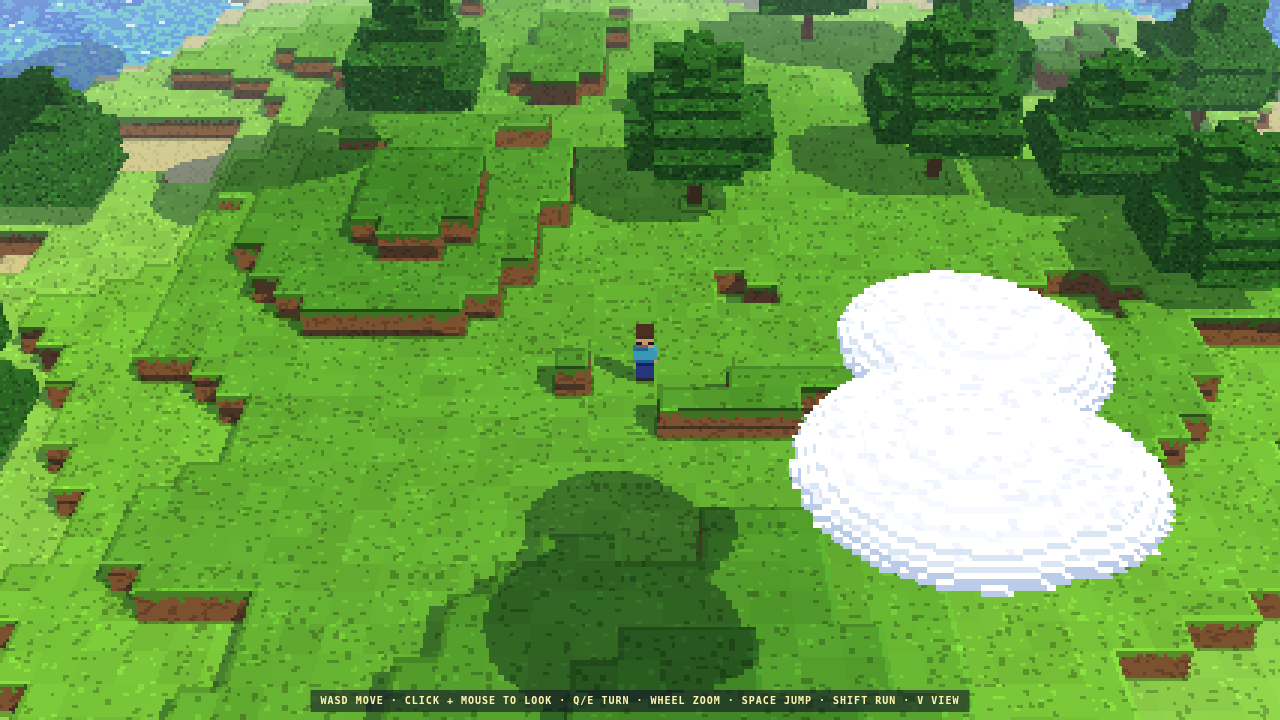
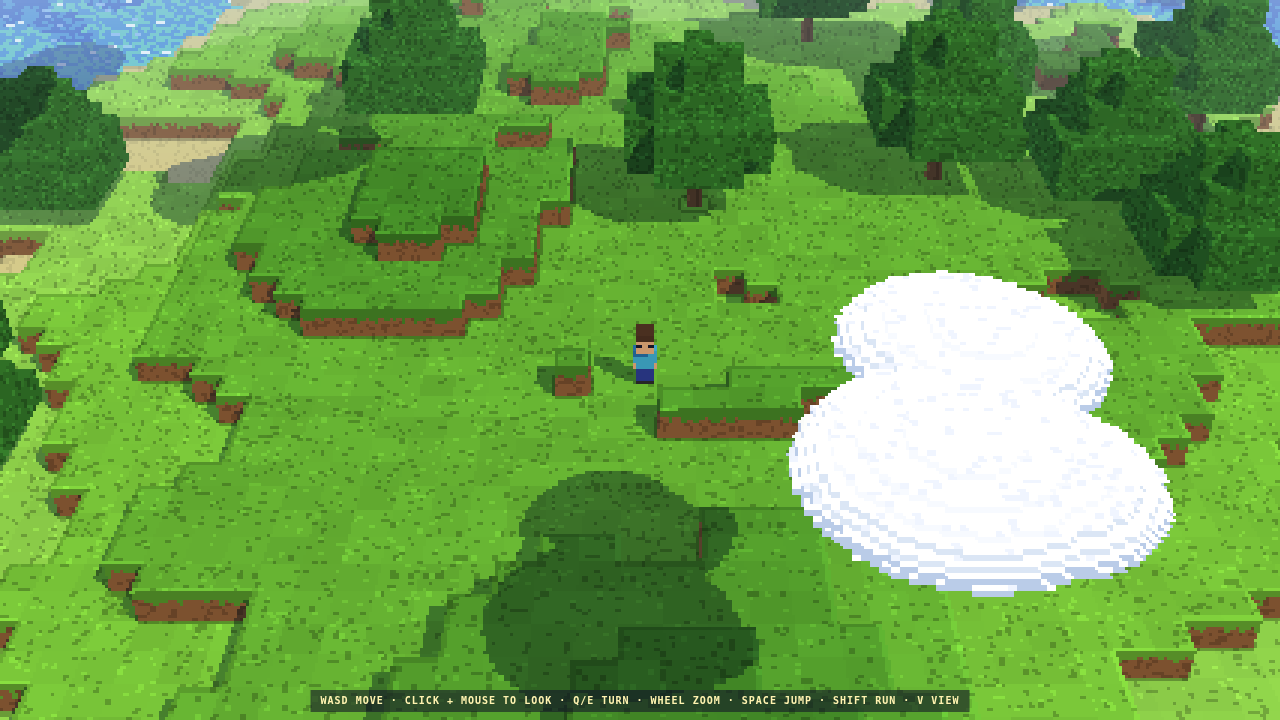
v2: exact DDA voxel traversal fixes texture seams; clouds fade over player in all views

diff --git a/dist/index.html b/dist/index.html
@@ -10,7 +10,7 @@ html,body{margin:0;height:100%;overflow:hidden;background:#2f5bc4;touch-action:n
 .bt{position:fixed;right:calc(18px + env(safe-area-inset-right));width:64px;height:64px;border-radius:50%;background:rgba(18,22,38,.45);border:2px solid rgba(255,243,176,.6);color:#fff3b0;font:700 13px ui-monospace,monospace;display:flex;align-items:center;justify-content:center}
 #j{bottom:calc(46px + env(safe-area-inset-bottom))}#v{bottom:calc(124px + env(safe-area-inset-bottom));width:48px;height:48px;right:calc(26px + env(safe-area-inset-right));font-size:11px}
 </style></head><body><canvas id="c"></canvas><div id="l">LOADING</div><div id="e"></div><div id="h"></div><div id="t"><div id="b"><div id="k"></div></div><div class="bt" id="j" data-btn="1">JUMP</div><div class="bt" id="v" data-btn="1">VIEW</div></div><script type="module">
-const SCENE_WGSL=`struct V{@builtin(position)p:vec4f};@vertex fn vs(@builtin(vertex_index)i:u32)->V{var o:V;let x=f32((i<<1u)&2u);let y=f32(i&2u);o.p=vec4f(x*2.-1.,1.-y*2.,0.,1.);return o;}@group(0)@binding(0)var<uniform>U:array<vec4f,8>;@group(0)@binding(1)var vox:texture_3d<u32>;@group(0)@binding(2)var hm:texture_2d<u32>;const N=128;const NZ=16;const S=8.;const ZW=2.75;const CB=15.5;const SUN=vec3f(-0.5,0.42,0.757);const FOG=vec3f(0.761,0.859,0.941);fn hh(a:u32)->u32{var n=a;n^=n >> 16u;n*=0x7feb352du;n^=n >> 15u;n*=0x846ca68bu;n^=n >> 16u;return n;}fn h2(p:vec2i)->f32{return f32(hh((u32(p.x)*1597334677u)^hh(u32(p.y)+0x9e3779b9u)) >> 8u)/16777216.;}fn h3(p:vec3i)->f32{return h2(vec2i(p.x+p.z*7919,p.y^(p.z*104729)));}fn c3(h:u32)->vec3f{return vec3f(f32((h >> 16u)&255u),f32((h >> 8u)&255u),f32(h&255u))/255.;}fn block(b:vec3i)->u32{if(b.x<0||b.y<0||b.z<0||b.x>=N||b.y>=N||b.z>=NZ){return 0u;}return textureLoad(vox,b,0).r;}fn height(b:vec2i)->i32{if(b.x<0||b.y<0||b.x>=N||b.y>=N){return 0;}return i32(textureLoad(hm,b,0).r);}fn player(t:vec3i)->u32{let P=U[5];let dz=t.z-i32(floor(P.z*S+0.01));if(dz<0||dz>14){return 0u;}let d=vec2f(t.xy)+0.5-P.xy*S;if(dot(d,d)>20.){return 0u;}let f=U[6].xy;let v=dot(d,f);let u=dot(d,vec2f(f.y,-f.x));let iu=i32(floor(u+0.5));let iv=i32(floor(v+0.5));let sw=i32(round(sin(U[6].z)*1.6*U[6].w));if(dz<=4){let m=select(10u,15u,dz==0);if((iu==-1||iu==-2)&&(iv-sw==-1||iv-sw==0)){return m;}if((iu==0||iu==1)&&(iv+sw==-1||iv+sw==0)){return m;}return 0u;}if(dz<=9){if(iu>=-2&&iu<=1&&(iv==-1||iv==0)){return 11u;}if(dz>=5&&((iu==-3&&(iv+sw==-1||iv+sw==0))||(iu==2&&(iv-sw==-1||iv-sw==0)))){return select(11u,12u,dz==5);}return 0u;}if(iu>=-2&&iu<=1&&iv>=-2&&iv<=1){if(dz>=13||iv==-2||(dz==12&&(iu==-2||iu==1)&&iv<1)){return 13u;}if(iv==1&&dz==11&&(iu==-2||iu==1)){return 14u;}return 12u;}return 0u;}fn solidT(t:vec3i)->u32{let pm=player(t);if(pm!=0u){return pm;}let id=block(t >> vec3u(3u));if(id==5u){let l=t&vec3i(7);if(l.x<2||l.x>5||l.y<2||l.y>5){return 0u;}}if(id==6u&&h3(t)<0.06){return 0u;}return id;}fn vn(p:vec2f)->f32{let i=vec2i(floor(p));let f=fract(p);let u=f*f*(3.-2.*f);return mix(mix(h2(i),h2(i+vec2i(1,0)),u.x),mix(h2(i+vec2i(0,1)),h2(i+vec2i(1,1)),u.x),u.y);}fn cloud(p:vec2f)->f32{let w=p+vec2f(U[0].z*0.9,U[0].z*0.3);let c=vec2i(floor(w/12.));if(h2(c+vec2i(77,13))>0.42){return 0.;}var hmax=0.;for(var i=0;i<4;i++){let r1=h2(c*4+vec2i(i,91));let r2=h2(c*4+vec2i(i,37));let r3=h2(c*4+vec2i(i,53));let r=1.3+r3*2.2;let o=vec2f(c)*12.+6.+(vec2f(r1,r2)-.5)*(9.-2.*r);let d=w-o;let q=r*r-dot(d,d);if(q>0.){hmax=max(hmax,sqrt(q)*2.6+0.5);}}return hmax;}fn shadow(q0:vec3f)->f32{var q=q0;var s=1.;for(var j=0;j<30;j++){q+=SUN*(1.6/S);if(q.z>15.){break;}if(solidT(vec3i(floor(q*S)))!=0u){s=0.;break;}}let qc=q0.xy+SUN.xy*((CB+0.6-q0.z)/SUN.z);if(cloud((floor(qc*S)+.5)/S)>0.){s=min(s,0.);}return s;}fn grassCol(hb:f32)->vec3f{switch i32(hb){case 4:{return c3(0x8fd24au);}case 5:{return c3(0x78c438u);}case 6:{return c3(0x66b232u);}case 7:{return c3(0x549f2cu);}default:{return c3(0x448c27u);}}}fn matCol(id:u32,t:vec3i,face:i32)->vec3f{let r=h3(t);let l=t&vec3i(7);let b=t >> vec3u(3u);var c:vec3f;switch id{case 1u:{let g=grassCol(f32(b.z+1));if(face==0){c=g*(0.94+0.1*h2(b.xy));if(r<0.09){c*=0.78;}else if(r>0.96){c*=1.12;}}else{let edge=7-l.z<2+i32(h3(vec3i(t.xy,0))*2.5);c=select(c3(0x8a5a34u)*select(1.,0.82,r<.2),g*0.8,edge);}}case 2u:{c=c3(0x8a5a34u)*select(1.,0.8,r<.25);}case 3u:{c=c3(0xd6c983u)*select(1.,0.92,r<.2);if(face!=0){c*=0.9;}}case 4u:{c=c3(0x959e9eu)*select(1.,0.86,r<.3);if(r>.95){c*=1.1;}}case 5u:{c=select(c3(0x7a5230u)*select(1.,0.8,l.x==3||l.y==4),c3(0xb08a55u),face==0);}case 6u:{c=c3(0x307026u)*select(1.,select(0.78,1.25,r>.5),r<.2||r>.9);}case 10u:{c=c3(0x2b3a8cu);}case 11u:{c=c3(0x3fa9c9u);}case 12u:{c=c3(0xe0a878u);}case 13u:{c=c3(0x4a3020u);}case 14u:{c=c3(0x1a1a2au);}default:{c=c3(0x2a2a2au);}}return c;}fn water(p:vec2f,sh:f32)->vec3f{let t=vec2i(floor(p*S));let tm=U[0].z;let hb=height(t >> vec2u(3u));var dl=9;for(var k=1;k<=3;k++){if(height((t+vec2i(k,0)) >> vec2u(3u))>=3||height((t-vec2i(k,0)) >> vec2u(3u))>=3||height((t+vec2i(0,k)) >> vec2u(3u))>=3||height((t-vec2i(0,k)) >> vec2u(3u))>=3){dl=min(dl,k);}}let n=h2(t >> vec2u(1u))*0.6;let dep=(2.7-f32(hb))+n-select(0.,1.2,dl<=3);var c=c3(0x2f5bc4u);if(dep<1.0){c=c3(0x59c2c4u);}else if(dep<1.9){c=c3(0x3f8ad6u);}let wt=vec2i(floor(vec2f(p.x*S+tm*3.,p.y*S)/vec2f(3.,1.)));let sp=h2(wt+vec2i(i32(tm*0.8)*37,0));if(sp>0.985){c=vec3f(0.95,0.98,1.);}else if(sp>0.965){c=mix(c,vec3f(0.62,0.8,1.),0.7);}if(sh<0.5){c=mix(c,c3(0x1b2f78u),0.55);}let ph=i32(tm*3.);if(dl==1&&h2(t+vec2i(ph*13,0))>0.15){c=vec3f(0.96,0.98,1.);}else if(dl==2&&h2(t+vec2i(0,ph*7))>0.6){c=mix(c,vec3f(1.),0.8);}return c;}fn sky(d:vec3f)->vec3f{return mix(FOG,vec3f(0.55,0.72,0.92),clamp(d.z*3.,0.,1.));}@fragment fn fs(@builtin(position)fc:vec4f)->@location(0)vec4f{let res=U[0].xy;let uv=fc.xy/res*2.-1.;let nd=vec2f(uv.x*U[3].w,-uv.y)*U[0].w;let o=U[1].xyz;let d=normalize(U[2].xyz+U[3].xyz*nd.x+U[4].xyz*nd.y);let far=U[2].w;let fogOn=U[1].w;if(d.z>-0.002){return vec4f(sky(d),1.);}for(var k=0;k<10;k++){let j=9-k;let z=CB+f32(j+1)/S;let t=(z-o.z)/d.z;if(t<0.){continue;}if(t>far){break;}let q=(floor((o.xy+d.xy*t)*S)+.5)/S;let qi=vec2i(floor(fc.xy));if(length(q-U[5].xy)<5.&&((qi.x+qi.y)&1)==0){continue;}let th=cloud(q);if(th>f32(j)){var c=vec3f(1.);if(th>=f32(j+1)&&j<9){c=select(select(vec3f(0.97,0.98,1.),vec3f(0.86,0.9,0.96),j<4),vec3f(0.73,0.8,0.91),j<2);}else if(h2(vec2i(floor(q*S)))>0.9){c=vec3f(0.94,0.96,1.);}return vec4f(mix(c,FOG,fogOn*smoothstep(far*0.4,far,t)),1.);}}var hit=0u;var ht=vec3i(0);var hp=vec3f(0.);var face=0;var prev=vec3i(-9999);var tt=0.;for(var k=NZ*8-1;k>=22;k--){let t=(f32(k+1)/S-o.z)/d.z;if(t<0.){continue;}if(t>far){break;}let p=o+d*t;if(p.x<-1.||p.y<-1.||p.x>f32(N)+1.||p.y>f32(N)+1.){prev=vec3i(-9999);continue;}let tx=vec3i(vec2i(floor(p.xy*S)),k);let m=solidT(tx);if(m!=0u){hit=m;ht=tx;hp=p;tt=t;if(solidT(tx+vec3i(0,0,1))==0u){face=0;}else if(prev.x!=tx.x&&(prev.y==tx.y||abs(d.x)>abs(d.y))){face=1;}else{face=2;}break;}prev=tx;}var col:vec3f;if(hit==0u){let t=(ZW-o.z)/d.z;if(t>far){return vec4f(sky(d),1.);}tt=t;let p=o+d*t;col=water(p.xy,shadow(vec3f((floor(p.xy*S)+.5)/S,ZW)));}else{col=matCol(hit,ht,face);var q=(vec3f(ht)+vec3f(.5,.5,1.02))/S;var lit=1.;if(face==0){let l=ht&vec3i(7);let b=ht >> vec3u(3u);if(hit<5u){if((l.x==0&&block(b+vec3i(-1,0,1))!=0u)||(l.x==7&&block(b+vec3i(1,0,1))!=0u)||(l.y==0&&block(b+vec3i(0,-1,1))!=0u)||(l.y==7&&block(b+vec3i(0,1,1))!=0u)){col*=0.72;}if((l.x==7&&block(b+vec3i(1,0,0))==0u)||(l.y==0&&block(b+vec3i(0,-1,0))==0u)){lit=0.86;}if((l.x==0&&block(b-vec3i(1,0,0))==0u)||(l.y==7&&block(b+vec3i(0,1,0))==0u)){lit=1.12;}}}else{let nrm=select(vec2f(0.,-sign(d.y)),vec2f(-sign(d.x),0.),face==1);q=(vec3f(ht)+.5)/S+vec3f(nrm*0.7/S,0.);lit=select(0.66,0.9,dot(nrm,SUN.xy)>0.);}let sh=shadow(q);col*=lit;if(sh<0.5){col*=vec3f(0.58,0.64,0.8);}}col=mix(col,FOG,fogOn*smoothstep(far*0.35,far,tt));return vec4f(col,1.);}`;const BLIT_WGSL=`@group(0)@binding(0)var src:texture_2d<f32>;@group(0)@binding(1)var<uniform>B:vec4f;struct V{@builtin(position)p:vec4f};@vertex fn vs(@builtin(vertex_index)i:u32)->V{var o:V;let x=f32((i<<1u)&2u);let y=f32(i&2u);o.p=vec4f(x*2.-1.,1.-y*2.,0.,1.);return o;}@fragment fn fs(@builtin(position)fc:vec4f)->@location(0)vec4f{return textureLoad(src,vec2i(fc.xy/B.x),0);}`;
+const SCENE_WGSL=`struct V{@builtin(position)p:vec4f};@vertex fn vs(@builtin(vertex_index)i:u32)->V{var o:V;let x=f32((i<<1u)&2u);let y=f32(i&2u);o.p=vec4f(x*2.-1.,1.-y*2.,0.,1.);return o;}@group(0)@binding(0)var<uniform>U:array<vec4f,8>;@group(0)@binding(1)var vox:texture_3d<u32>;@group(0)@binding(2)var hm:texture_2d<u32>;const N=128;const NZ=16;const S=8.;const ZW=2.75;const CB=15.5;const SUN=vec3f(-0.5,0.42,0.757);const FOG=vec3f(0.761,0.859,0.941);fn hh(a:u32)->u32{var n=a;n^=n >> 16u;n*=0x7feb352du;n^=n >> 15u;n*=0x846ca68bu;n^=n >> 16u;return n;}fn h2(p:vec2i)->f32{return f32(hh((u32(p.x)*1597334677u)^hh(u32(p.y)+0x9e3779b9u)) >> 8u)/16777216.;}fn h3(p:vec3i)->f32{return h2(vec2i(p.x+p.z*7919,p.y^(p.z*104729)));}fn c3(h:u32)->vec3f{return vec3f(f32((h >> 16u)&255u),f32((h >> 8u)&255u),f32(h&255u))/255.;}fn block(b:vec3i)->u32{if(b.x<0||b.y<0||b.z<0||b.x>=N||b.y>=N||b.z>=NZ){return 0u;}return textureLoad(vox,b,0).r;}fn height(b:vec2i)->i32{if(b.x<0||b.y<0||b.x>=N||b.y>=N){return 0;}return i32(textureLoad(hm,b,0).r);}fn player(t:vec3i)->u32{let P=U[5];let dz=t.z-i32(floor(P.z*S+0.01));if(dz<0||dz>14){return 0u;}let d=vec2f(t.xy)+0.5-P.xy*S;if(dot(d,d)>20.){return 0u;}let f=U[6].xy;let v=dot(d,f);let u=dot(d,vec2f(f.y,-f.x));let iu=i32(floor(u+0.5));let iv=i32(floor(v+0.5));let sw=i32(round(sin(U[6].z)*1.6*U[6].w));if(dz<=4){let m=select(10u,15u,dz==0);if((iu==-1||iu==-2)&&(iv-sw==-1||iv-sw==0)){return m;}if((iu==0||iu==1)&&(iv+sw==-1||iv+sw==0)){return m;}return 0u;}if(dz<=9){if(iu>=-2&&iu<=1&&(iv==-1||iv==0)){return 11u;}if(dz>=5&&((iu==-3&&(iv+sw==-1||iv+sw==0))||(iu==2&&(iv-sw==-1||iv-sw==0)))){return select(11u,12u,dz==5);}return 0u;}if(iu>=-2&&iu<=1&&iv>=-2&&iv<=1){if(dz>=13||iv==-2||(dz==12&&(iu==-2||iu==1)&&iv<1)){return 13u;}if(iv==1&&dz==11&&(iu==-2||iu==1)){return 14u;}return 12u;}return 0u;}fn vn(p:vec2f)->f32{let i=vec2i(floor(p));let f=fract(p);let u=f*f*(3.-2.*f);return mix(mix(h2(i),h2(i+vec2i(1,0)),u.x),mix(h2(i+vec2i(0,1)),h2(i+vec2i(1,1)),u.x),u.y);}fn cloud(p:vec2f)->f32{let w=p+vec2f(U[0].z*0.9,U[0].z*0.3);let c=vec2i(floor(w/12.));if(h2(c+vec2i(77,13))>0.42){return 0.;}var hmax=0.;for(var i=0;i<4;i++){let r1=h2(c*4+vec2i(i,91));let r2=h2(c*4+vec2i(i,37));let r3=h2(c*4+vec2i(i,53));let r=1.3+r3*2.2;let o=vec2f(c)*12.+6.+(vec2f(r1,r2)-.5)*(9.-2.*r);let d=w-o;let q=r*r-dot(d,d);if(q>0.){hmax=max(hmax,sqrt(q)*2.6+0.5);}}return hmax;}struct Hit{t:f32,id:u32,n:vec3f};fn sinv(d:vec3f)->vec3f{return 1./select(d,vec3f(1e-9),abs(d)<vec3f(1e-9));}fn slab(ro:vec3f,inv:vec3f,rd:vec3f,b0:vec3f,b1:vec3f,n:ptr<function,vec3f>)->vec2f{let a=(b0-ro)*inv;let b=(b1-ro)*inv;let lo=min(a,b);let hi=max(a,b);let tn=max(max(lo.x,lo.y),lo.z);if(tn==lo.x){*n=vec3f(-sign(rd.x),0.,0.);}else if(tn==lo.y){*n=vec3f(0.,-sign(rd.y),0.);}else{*n=vec3f(0.,0.,-sign(rd.z));}return vec2f(tn,min(min(hi.x,hi.y),hi.z));}fn traceBlocks(ro:vec3f,rd:vec3f,tA:f32,tB:f32,steps:i32)->Hit{var h:Hit;h.t=tB;h.id=0u;h.n=vec3f(0.,0.,1.);let inv=sinv(rd);var n=vec3f(0.,0.,1.);let w=slab(ro,inv,rd,vec3f(0.),vec3f(f32(N),f32(N),f32(NZ)),&n);var t=max(tA,w.x);let te=min(tB,w.y);if(t>=te){return h;}if(w.x<tA){n=-sign(rd)*vec3f(0.,0.,1.);}let st=select(vec3i(-1),vec3i(1),rd>vec3f(0.));var c=clamp(vec3i(floor(ro+rd*(t+1e-4))),vec3i(0),vec3i(N-1,N-1,NZ-1));let dl=abs(inv);var tm=(vec3f(c)+select(vec3f(0.),vec3f(1.),rd>vec3f(0.))-ro)*inv;for(var i=0;i<steps;i++){let id=block(c);if(id==5u){var bn=n;let r=slab(ro,inv,rd,vec3f(c)+vec3f(.25,.25,0.),vec3f(c)+vec3f(.75,.75,1.),&bn);if(r.x<=r.y&&r.y>=t){h.t=max(r.x,t);h.id=5u;h.n=select(n,bn,r.x>=t);return h;}}else if(id!=0u){h.t=t;h.id=id;h.n=n;return h;}if(tm.x<tm.y&&tm.x<tm.z){t=tm.x;tm.x+=dl.x;c.x+=st.x;n=vec3f(f32(-st.x),0.,0.);}else if(tm.y<tm.z){t=tm.y;tm.y+=dl.y;c.y+=st.y;n=vec3f(0.,f32(-st.y),0.);}else{t=tm.z;tm.z+=dl.z;c.z+=st.z;n=vec3f(0.,0.,f32(-st.z));}if(t>te||any(c<vec3i(0))||c.x>=N||c.y>=N||c.z>=NZ){break;}}return h;}fn tracePlayer(ro:vec3f,rd:vec3f,tB:f32)->Hit{var h:Hit;h.t=tB;h.id=0u;h.n=vec3f(0.,0.,1.);let P=U[5];let z0=floor(P.z*S+0.01);let o=ro*S;let inv=sinv(rd);var n=vec3f(0.,0.,1.);let r=slab(o,inv,rd,vec3f(P.xy*S-5.,z0),vec3f(P.xy*S+5.,z0+15.),&n);if(r.x>r.y||r.y<0.||r.x>tB*S){return h;}var t=max(r.x,0.);let st=select(vec3i(-1),vec3i(1),rd>vec3f(0.));var c=vec3i(floor(o+rd*(t+1e-3)));let dl=abs(inv);var tm=(vec3f(c)+select(vec3f(0.),vec3f(1.),rd>vec3f(0.))-o)*inv;for(var i=0;i<40;i++){let id=player(c);if(id!=0u){if(t/S<tB){h.t=t/S;h.id=id;h.n=n;}return h;}if(tm.x<tm.y&&tm.x<tm.z){t=tm.x;tm.x+=dl.x;c.x+=st.x;n=vec3f(f32(-st.x),0.,0.);}else if(tm.y<tm.z){t=tm.y;tm.y+=dl.y;c.y+=st.y;n=vec3f(0.,f32(-st.y),0.);}else{t=tm.z;tm.z+=dl.z;c.z+=st.z;n=vec3f(0.,0.,f32(-st.z));}if(t>r.y){break;}}return h;}fn shadow(p:vec3f)->f32{if(traceBlocks(p,SUN,0.0,16.,28).id!=0u){return 0.;}if(tracePlayer(p,SUN,16.).id!=0u){return 0.;}let qc=p.xy+SUN.xy*((CB+0.6-p.z)/SUN.z);if(cloud((floor(qc*S)+.5)/S)>0.){return 0.;}return 1.;}fn grassCol(hb:f32)->vec3f{switch i32(hb){case 4:{return c3(0x8fd24au);}case 5:{return c3(0x78c438u);}case 6:{return c3(0x66b232u);}case 7:{return c3(0x549f2cu);}default:{return c3(0x448c27u);}}}fn matCol(id:u32,t:vec3i,face:i32)->vec3f{let r=h3(t);let l=t&vec3i(7);let b=t >> vec3u(3u);var c:vec3f;switch id{case 1u:{let g=grassCol(f32(b.z+1));if(face==0){c=g*(0.94+0.1*h2(b.xy));if(r<0.09){c*=0.78;}else if(r>0.96){c*=1.12;}}else{let edge=7-l.z<2+i32(h3(vec3i(t.xy,0))*2.5);c=select(c3(0x8a5a34u)*select(1.,0.82,r<.2),g*0.8,edge);}}case 2u:{c=c3(0x8a5a34u)*select(1.,0.8,r<.25);}case 3u:{c=c3(0xd6c983u)*select(1.,0.92,r<.2);if(face!=0){c*=0.9;}}case 4u:{c=c3(0x959e9eu)*select(1.,0.86,r<.3);if(r>.95){c*=1.1;}}case 5u:{c=select(c3(0x7a5230u)*select(1.,0.8,l.x==3||l.y==4),c3(0xb08a55u),face==0);}case 6u:{c=c3(0x307026u)*select(1.,select(0.78,1.25,r>.5),r<.2||r>.9);}case 10u:{c=c3(0x2b3a8cu);}case 11u:{c=c3(0x3fa9c9u);}case 12u:{c=c3(0xe0a878u);}case 13u:{c=c3(0x4a3020u);}case 14u:{c=c3(0x1a1a2au);}default:{c=c3(0x2a2a2au);}}return c;}fn water(p:vec2f,sh:f32)->vec3f{let t=vec2i(floor(p*S));let tm=U[0].z;let hb=height(t >> vec2u(3u));var dl=9;for(var k=1;k<=3;k++){if(height((t+vec2i(k,0)) >> vec2u(3u))>=3||height((t-vec2i(k,0)) >> vec2u(3u))>=3||height((t+vec2i(0,k)) >> vec2u(3u))>=3||height((t-vec2i(0,k)) >> vec2u(3u))>=3){dl=min(dl,k);}}let n=h2(t >> vec2u(1u))*0.6;let dep=(2.7-f32(hb))+n-select(0.,1.2,dl<=3);var c=c3(0x2f5bc4u);if(dep<1.0){c=c3(0x59c2c4u);}else if(dep<1.9){c=c3(0x3f8ad6u);}let wt=vec2i(floor(vec2f(p.x*S+tm*3.,p.y*S)/vec2f(3.,1.)));let sp=h2(wt+vec2i(i32(tm*0.8)*37,0));if(sp>0.985){c=vec3f(0.95,0.98,1.);}else if(sp>0.965){c=mix(c,vec3f(0.62,0.8,1.),0.7);}if(sh<0.5){c=mix(c,c3(0x1b2f78u),0.55);}let ph=i32(tm*3.);if(dl==1&&h2(t+vec2i(ph*13,0))>0.15){c=vec3f(0.96,0.98,1.);}else if(dl==2&&h2(t+vec2i(0,ph*7))>0.6){c=mix(c,vec3f(1.),0.8);}return c;}fn sky(d:vec3f)->vec3f{return mix(FOG,vec3f(0.55,0.72,0.92),clamp(d.z*3.,0.,1.));}@fragment fn fs(@builtin(position)fc:vec4f)->@location(0)vec4f{let res=U[0].xy;let uv=fc.xy/res*2.-1.;let nd=vec2f(uv.x*U[3].w,-uv.y)*U[0].w;let o=U[1].xyz;let F=U[2].xyz;let R=U[3].xyz;let Up=U[4].xyz;let d=normalize(F+R*nd.x+Up*nd.y);let far=U[2].w;let fogOn=U[1].w;if(d.z>-0.002){return vec4f(sky(d),1.);}var cc=vec3f(1.);var ca=0.;var ct=0.;for(var k=0;k<10;k++){let j=9-k;let z=CB+f32(j+1)/S;let t=(z-o.z)/d.z;if(t<0.){continue;}if(t>far){break;}let q=(floor((o.xy+d.xy*t)*S)+.5)/S;let th=cloud(q);if(th>f32(j)){if(th>=f32(j+1)&&j<9){cc=select(select(vec3f(0.97,0.98,1.),vec3f(0.86,0.9,0.96),j<4),vec3f(0.73,0.8,0.91),j<2);}else if(h2(vec2i(floor(q*S)))>0.9){cc=vec3f(0.94,0.96,1.);}let pc=U[5].xyz+vec3f(0.,0.,0.9);let v=pc-o;let pd=length(v);let dep=max(dot(v,F),0.1);let pnd=vec2f(dot(v,R),dot(v,Up))/dep;let rr=1.2/dep;var a=smoothstep(rr*1.6,rr*4.5,length(nd-pnd));a=select(a,1.,t>pd);a=min(a,smoothstep(3.,7.,length(q-pc.xy)));a*=smoothstep(0.12,0.4,t/pd);ca=a;ct=t;break;}}if(ca>0.995){return vec4f(mix(cc,FOG,fogOn*smoothstep(far*0.4,far,ct)),1.);}let tw=(ZW-o.z)/d.z;var hb=traceBlocks(o,d,0.,min(far,tw),320);let hp=tracePlayer(o,d,hb.t);if(hp.id!=0u){hb=hp;}var col:vec3f;var tt=hb.t;if(hb.id==0u){if(tw>far){col=sky(d);}else{tt=tw;let p=o+d*tw;col=water(p.xy,shadow(vec3f((floor(p.xy*S)+.5)/S,ZW)));}}else{let p=o+d*hb.t;let n=hb.n;let ht=vec3i(floor((p-n*0.002)*S));let face=select(select(2,1,abs(n.x)>0.5),0,n.z>0.5);col=matCol(hb.id,ht,face);var lit=1.;if(face==0){let l=ht&vec3i(7);let b=ht >> vec3u(3u);if(hb.id<5u){if((l.x==0&&block(b+vec3i(-1,0,1))!=0u)||(l.x==7&&block(b+vec3i(1,0,1))!=0u)||(l.y==0&&block(b+vec3i(0,-1,1))!=0u)||(l.y==7&&block(b+vec3i(0,1,1))!=0u)){col*=0.72;}if((l.x==7&&block(b+vec3i(1,0,0))==0u)||(l.y==0&&block(b+vec3i(0,-1,0))==0u)){lit=0.86;}if((l.x==0&&block(b-vec3i(1,0,0))==0u)||(l.y==7&&block(b+vec3i(0,1,0))==0u)){lit=1.12;}}}else if(n.z<-0.5){lit=0.5;}else{lit=select(0.,0.9,dot(n.xy,SUN.xy)>0.);}if(lit==0.){col*=vec3f(0.64,0.7,0.84);}else{let q=(vec3f(ht)+.5)/S+n*(0.5/S+0.01);col*=lit;if(shadow(q)<0.5){col*=vec3f(0.58,0.64,0.8);}}}col=mix(col,FOG,fogOn*smoothstep(far*0.35,far,tt));if(ca>0.){col=mix(col,mix(cc,FOG,fogOn*smoothstep(far*0.4,far,ct)),ca);}return vec4f(col,1.);}`;const BLIT_WGSL=`@group(0)@binding(0)var src:texture_2d<f32>;@group(0)@binding(1)var<uniform>B:vec4f;struct V{@builtin(position)p:vec4f};@vertex fn vs(@builtin(vertex_index)i:u32)->V{var o:V;let x=f32((i<<1u)&2u);let y=f32(i&2u);o.p=vec4f(x*2.-1.,1.-y*2.,0.,1.);return o;}@fragment fn fs(@builtin(position)fc:vec4f)->@location(0)vec4f{return textureLoad(src,vec2i(fc.xy/B.x),0);}`;
 
 const $ = (s) => document.querySelector(s);
 const cv = $('#c'), hint = $('#h');
@@ -123,6 +123,9 @@ const prevBtn = [];
 const dz = (v) => (Math.abs(v) < 0.15 ? 0 : (v - Math.sign(v) * 0.15) / 0.85);
 const U = new Float32Array(32), st = new Float32Array(mem(), X.state_ptr(), 16);
 let last = performance.now(), acc = 0, frames = 0, slow = 0;
+if (qs.get('p')) { const [x, y] = qs.get('p').split(',').map(Number); const hm8 = new Uint8Array(mem(), X.height_ptr(), N * N); st[0] = x + 0.5; st[1] = y + 0.5; st[2] = hm8[y * N + x] + 2; }
+if (qs.get('pt')) pitch = +qs.get('pt');
+const t0 = +qs.get('t') || 0;
 cz = st[2];
 const frame = (now) => {
 const dt = Math.min(0.05, (now - last) / 1000); last = now;
@@ -157,7 +160,7 @@ const cp = Math.cos(pitch), sp = Math.sin(pitch), fx = Math.cos(yaw), fy = Math.
 const F = [fx * cp, fy * cp, -sp], R = [fy, -fx, 0], Up = [R[1] * F[2] - R[2] * F[1], R[2] * F[0] - R[0] * F[2], R[0] * F[1] - R[1] * F[0]];
 const tx = s[0], ty = s[1], tz = cz + 0.9;
 const tanV = V.tan * Math.max(1, (ih / iw) * 0.8);
-U.set([iw, ih, now / 1000, tanV, tx - F[0] * dist, ty - F[1] * dist, tz - F[2] * dist, V.fog,
+U.set([iw, ih, now / 1000 + t0, tanV, tx - F[0] * dist, ty - F[1] * dist, tz - F[2] * dist, V.fog,
 ...F, V.fog ? dist * 3.2 : dist * 6, ...R, iw / ih, ...Up, 0, s[0], s[1], s[2], 0, s[4], s[5], s[6], s[7]]);
 dev.queue.writeBuffer(ub, 0, U);
 const enc = dev.createCommandEncoder();

diff --git a/tools/build.ts b/tools/build.ts
@@ -3,40 +3,15 @@ import { execSync } from 'node:child_process';
 import { readFileSync, writeFileSync, mkdirSync, existsSync, copyFileSync } from 'node:fs';
 import { gzipSync, brotliCompressSync, constants } from 'node:zlib';
 const root = new URL('..', import.meta.url).pathname;
-const sh = (c: string) => {
-  try {
-    execSync(c, { cwd: root, stdio: 'inherit', env: { ...process.env, PATH: `${process.env.HOME}/.cargo/bin:${process.env.PATH}` } });
-  } catch (err) {
-    const status = typeof err === 'object' && err && 'status' in err && typeof err.status === 'number' ? err.status : 1;
-    console.error(err instanceof Error ? err.message : err);
-    console.error(`command failed (${status || 1}): ${c}`);
-    process.exit(status || 1);
-  }
-};
-function wasmOptFromPath(): string | undefined {
-  try {
-    const found = execSync('command -v wasm-opt', { encoding: 'utf8', stdio: ['ignore', 'pipe', 'ignore'] }).trim();
-    return found && existsSync(found) ? found : undefined;
-  } catch {
-    return undefined;
-  }
-}
+const sh = (c: string) => execSync(c, { cwd: root, stdio: 'inherit', env: { ...process.env, PATH: `${process.env.HOME}/.cargo/bin:${process.env.PATH}` } });
 sh('cd core && cargo build --release --target wasm32-unknown-unknown');
 mkdirSync(root + 'dist', { recursive: true });
 const raw = root + 'core/target/wasm32-unknown-unknown/release/core.wasm';
-if (!existsSync(raw)) {
-  console.error(`cargo did not produce ${raw}`);
-  process.exit(1);
-}
-const wasmOpt = ['/tmp/bn/node_modules/.bin/wasm-opt', root + 'node_modules/.bin/wasm-opt'].find(existsSync) ?? wasmOptFromPath();
-const q = (p: string) => `'${p.replace(/'/g, `'\\''`)}'`;
-if (wasmOpt) {
-  console.log(`wasm-opt: ${wasmOpt}`);
-  sh(`${q(wasmOpt)} -Oz --enable-bulk-memory --enable-nontrapping-float-to-int --enable-sign-ext --enable-mutable-globals --strip-debug --strip-producers ${q(raw)} -o dist/g.wasm`);
-} else {
-  console.log('wasm-opt not found; copying unoptimized wasm');
-  copyFileSync(raw, root + 'dist/g.wasm');
-}
+const onPath = (process.env.PATH ?? '').split(':').map((d) => d + '/wasm-opt');
+const wasmOpt = [...onPath, root + 'node_modules/.bin/wasm-opt', '/tmp/bn/node_modules/.bin/wasm-opt'].find(existsSync);
+if (!wasmOpt) console.warn('wasm-opt not found (PATH or node_modules); shipping unoptimized wasm');
+if (wasmOpt) sh(`${wasmOpt} -Oz --enable-bulk-memory --enable-nontrapping-float-to-int --enable-sign-ext --enable-mutable-globals --strip-debug --strip-producers ${raw} -o dist/g.wasm`);
+else copyFileSync(raw, root + 'dist/g.wasm');
 const wgsl = (f: string) => readFileSync(root + 'web/' + f, 'utf8').replace(/\/\/[^\n]*/g, '').replace(/\s+/g, ' ').replace(/ ?([{}();,:=<>+\-*\/&|^!?\[\]]) ?/g, '$1').replace(/>>/g, ' >> ').trim();
 const js = readFileSync(root + 'web/main.js', 'utf8').replace(/^\s*\/\/[^\n]*$/gm, '').replace(/\n\s+/g, '\n');
 const html = readFileSync(root + 'web/index.html', 'utf8').replace('/*SCENE*/', () => wgsl('scene.wgsl')).replace('/*BLIT*/', () => wgsl('blit.wgsl')).replace('/*MAIN*/', () => js).replace(/>\n</g, '><');

diff --git a/web/main.js b/web/main.js
@@ -115,6 +115,10 @@ const wasmP = WebAssembly.instantiateStreaming(fetch('g.wasm'), { env: { msin: M
   // ---------- frame ----------
   const U = new Float32Array(32), st = new Float32Array(mem(), X.state_ptr(), 16);
   let last = performance.now(), acc = 0, frames = 0, slow = 0;
+  // debug: ?p=x,y teleport, ?t=seconds time offset, ?pt=pitch
+  if (qs.get('p')) { const [x, y] = qs.get('p').split(',').map(Number); const hm8 = new Uint8Array(mem(), X.height_ptr(), N * N); st[0] = x + 0.5; st[1] = y + 0.5; st[2] = hm8[y * N + x] + 2; }
+  if (qs.get('pt')) pitch = +qs.get('pt');
+  const t0 = +qs.get('t') || 0;
   cz = st[2];
   const frame = (now) => {
     const dt = Math.min(0.05, (now - last) / 1000); last = now;
@@ -150,7 +154,7 @@ const wasmP = WebAssembly.instantiateStreaming(fetch('g.wasm'), { env: { msin: M
     const F = [fx * cp, fy * cp, -sp], R = [fy, -fx, 0], Up = [R[1] * F[2] - R[2] * F[1], R[2] * F[0] - R[0] * F[2], R[0] * F[1] - R[1] * F[0]];
     const tx = s[0], ty = s[1], tz = cz + 0.9;
     const tanV = V.tan * Math.max(1, (ih / iw) * 0.8);
-    U.set([iw, ih, now / 1000, tanV, tx - F[0] * dist, ty - F[1] * dist, tz - F[2] * dist, V.fog,
+    U.set([iw, ih, now / 1000 + t0, tanV, tx - F[0] * dist, ty - F[1] * dist, tz - F[2] * dist, V.fog,
       ...F, V.fog ? dist * 3.2 : dist * 6, ...R, iw / ih, ...Up, 0, s[0], s[1], s[2], 0, s[4], s[5], s[6], s[7]]);
     dev.queue.writeBuffer(ub, 0, U);
     const enc = dev.createCommandEncoder();

diff --git a/README.md b/README.md
@@ -5,7 +5,7 @@
 A tiny Minecraft-style island rendered SNES Mode 7 / sprite-stacking style: no meshes, no polygons.
 
 - `core/`: Rust `no_std` -> wasm32 (no wasm-bindgen). It handles world gen (128x128x16 voxel island, trees) and player physics/collision.
-- `web/scene.wgsl`: one full-screen fragment shader. Each pixel walks down 1/8-block horizontal slices (a Mode 7 plane projection per slice) until it hits a texel, so the world, trees, avatar and clouds are all stacked 2D slices. Textures are procedural. It also does shadows, water/foam and fog.
+- `web/scene.wgsl`: one full-screen fragment shader, no meshes. Terrain and trees use an exact voxel DDA (Amanatides-Woo) over the block grid. The sprite-stacked avatar uses a texel DDA in its own bounding box. Clouds are stacked 2D slices, and they fade smoothly wherever they cover the avatar on screen, sit right above it, or are close to the camera. 8x8 procedural pixel textures, shadows, water/foam and fog.
 - `web/blit.wgsl`: nearest-neighbour integer upscale of the low-res target.
 - `web/main.js`: WebGPU setup plus input (touch, gamepad, keyboard/mouse).
 
@@ -14,4 +14,5 @@ A tiny Minecraft-style island rendered SNES Mode 7 / sprite-stacking style: no m
     node tools/shot.ts URL out.png W H   # headless Chrome (SwiftShader WebGPU) screenshot
     node tools/map.ts [seed]             # ASCII map of the generated island
 
-URL params: `?v=1` top-down view, `?z=1.5` zoom, `?r=3.14` camera yaw offset.
+URL params (debug): `?v=1` top-down view, `?z=1.5` zoom, `?r=3.14` camera yaw offset, `?pt=0.4` pitch, `?p=75,65` teleport, `?t=40` cloud time offset.
+wasm-opt is looked up on PATH, then in node_modules/.bin.
